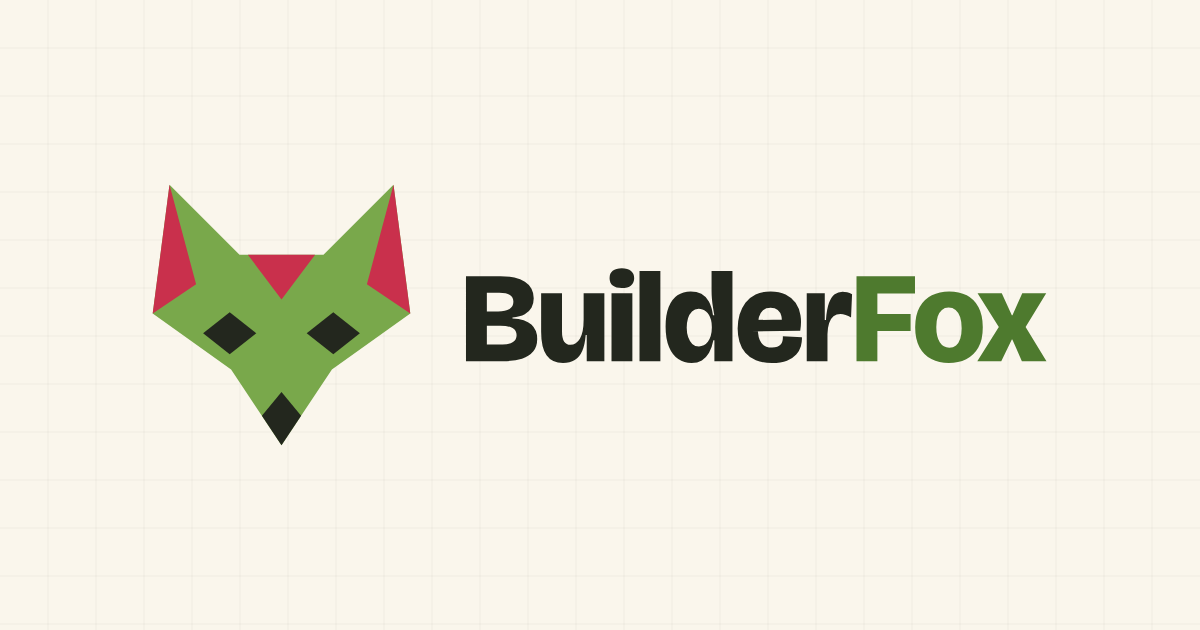
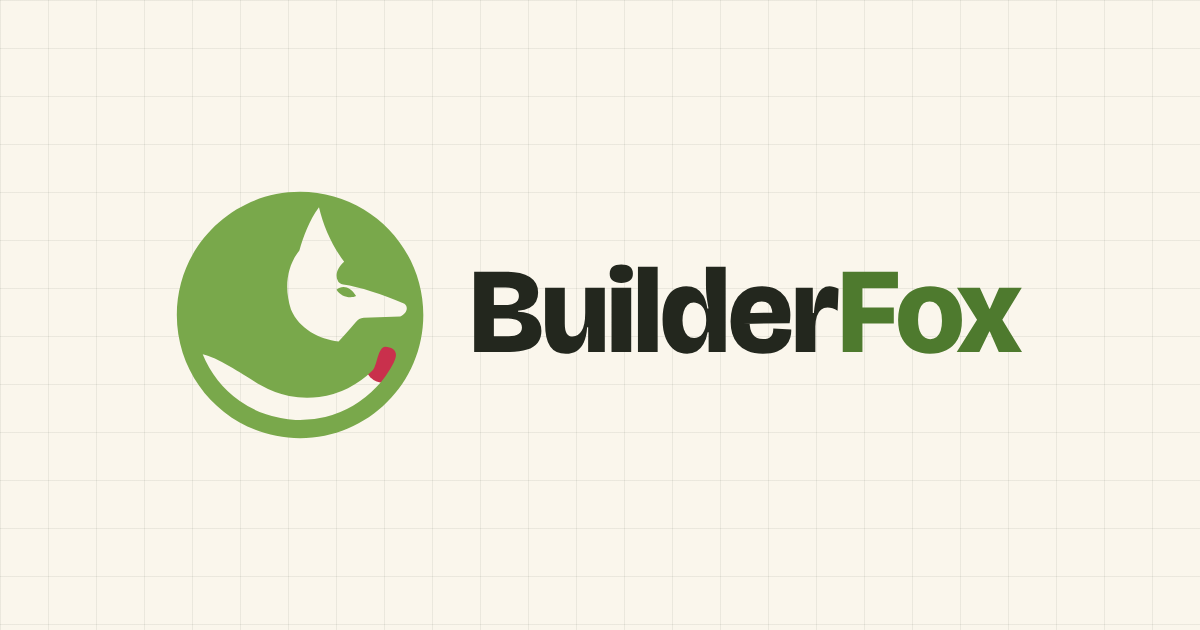
Redesign brand mark: faceted fox head → The Den (negative-space fox)
Fox now exists as carved negative space inside a warm-green den
circle — ear, brow, and muzzle in the upper right, calligraphic
tail sweeping the lower arc to a crimson tip. Chosen from 4
concepts judged against the original on elegance, fox-read,
small-size survival, and curve craft. All assets rebuilt: logo,
mono, favicon (+32px raster), wordmark, OG image, alt texts.

Changed region(s): [[0.1233, 0.3016, 0.8942, 0.6937]]

diff --git a/index.html b/index.html
@@ -16,7 +16,7 @@
   <meta property="og:image" content="https://builderfox.com/assets/og-image.png">
   <meta property="og:image:width" content="1200">
   <meta property="og:image:height" content="630">
-  <meta property="og:image:alt" content="BuilderFox geometric fox mark and wordmark on a cream tactical-grid background">
+  <meta property="og:image:alt" content="BuilderFox den mark — a fox carved in negative space from a green circle, tail tip dipped in crimson — with the BuilderFox wordmark on a cream tactical-grid background">
   <meta name="twitter:card" content="summary_large_image">
   <meta name="twitter:title" content="BuilderFox — Games That Think Back">
   <meta name="twitter:description" content="BuilderFox builds and publishes smart, tactical games. First up: Wrestling City Tactics — a turn-based RPG where the ring meets the grid. Notify me.">
@@ -61,7 +61,7 @@
           </p>
         </div>
         <div class="hero-mark reveal">
-          <img src="assets/logo.svg" alt="BuilderFox geometric fox mark: a faceted fox head in warm green with crimson ear and brow accents" width="420" height="420">
+          <img src="assets/logo.svg" alt="BuilderFox den mark: a warm green circle with a fox carved from it in negative space — ear, muzzle, and a sweeping tail whose tip is dipped in crimson" width="420" height="420">
         </div>
       </div>
     </section>